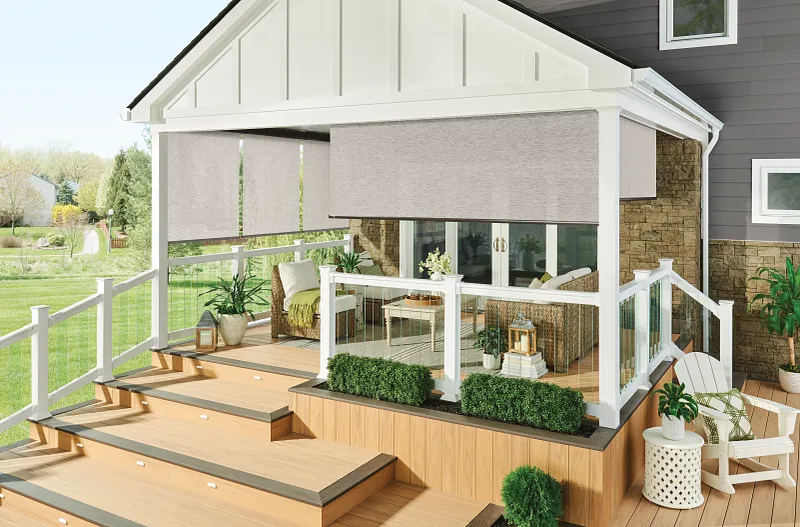
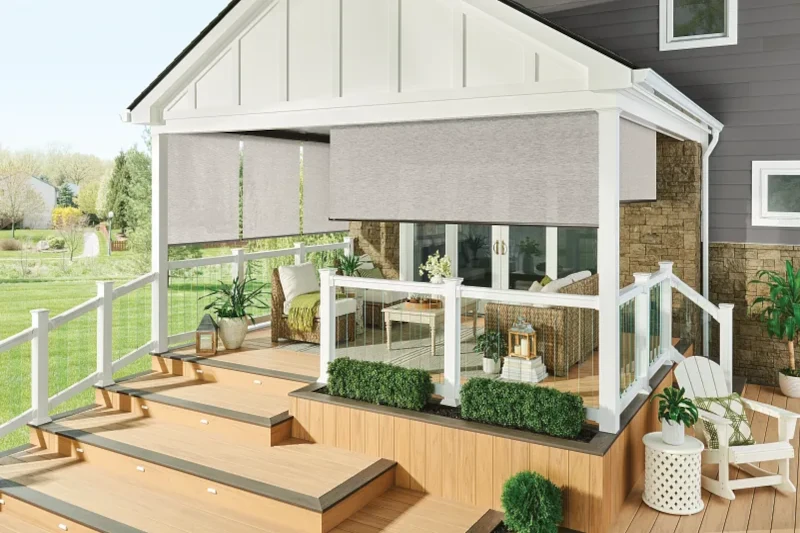
Update

diff --git a/Cool-Your-Edmond-Oklahoma-Sunroom.html b/Cool-Your-Edmond-Oklahoma-Sunroom.html
@@ -3,7 +3,7 @@
 
 <head>
   <meta charset="UTF-8">
-  <title>Cool Your Edmond Sunroom | Window Treatments</title>
+  <title>Cool Your Sunroom in Edmond & OKC | Solar & Cellular Shades</title>
 
   <!-- Google tag (gtag.js) -->
   <script async src="https://www.googletagmanager.com/gtag/js?id=G-W4SF3R9Q43"></script>
@@ -49,12 +49,12 @@
 
   <meta name="viewport" content="width=device-width, initial-scale=1.0">
 
-  <meta name="description" content="Transform your hot sunroom into a comfortable oasis with expert window treatment solutions from Shaded In The Sun. Discover how!">
+  <meta name="description" content="Cool your Edmond sunroom with solar shades, cellular shades & motorized window treatments. Expert installation. Call 405-259-5599 today!">
   <meta property="og:url" content="https://shadedinthesun.com/Cool-Your-Edmond-Oklahoma-Sunroom.html">
   <meta property="og:type" content="website">
   <meta property="og:site_name" content="Shaded In The Sun">
-  <meta property="og:title" content="Beat the Heat: Cool Your Oklahoma Sunroom - Shaded In The Sun">
-  <meta property="og:description" content="Transform your hot sunroom into a comfortable oasis with expert window treatment solutions from Shaded In The Sun. Discover how!">
+  <meta property="og:title" content="Cool Your Sunroom in Edmond & OKC | Solar & Cellular Shades">
+  <meta property="og:description" content="Cool your Edmond sunroom with solar shades, cellular shades & motorized window treatments. Expert installation. Call 405-259-5599 today!">
 
   <link rel="canonical" href="https://shadedinthesun.com/Cool-Your-Edmond-Oklahoma-Sunroom.html">
 
@@ -164,23 +164,22 @@
   </div>
 
   <main class='h-center-div'>
-    <section>
-      <div class="rel-position margin-tb-25">
-        <a href="tel:14052595599" onclick="return gtag_report_conversion();">
-          <div class="heroContainer stagger1">
-            <img class="hero stagger1 z-1 balanced-text" src="/images/Sunroom-with-Aberdeen-Solar-Shades-1.webp" width="1500" height="535" alt="Graber Solar Shades on a back patio">
+    <section class="margin-tb-25">
+      <div class="padding-15 outer-flex">
+        <img class="max-width-90p-h-auto margin-rl30" width="800" height="533" src="/images/3683-exterior-solar-shades-rs22-v1.webp" alt="Graber solar shades cooling a sunroom and reducing heat from summer sun" loading="lazy">
+        <div class='centerSmall'>
+          <h1 class="h-center fs-1000 balanced-text variable-h1-orange stagger1">Beat the Heat: Cool Your Edmond Oklahoma Sunroom</h1>
+          <div class='margin-t-25'>
+            <h2 class='variable-h2-orange h-center margin-t-15'>What You'll Learn in This Article:</h2>
+            <ul class='margin-t-10'>
+              <li class='fs-550 padding-left-15px margin-t-10'><span class='pop-100'>✓</span> <span class='text-neutral-900'>Why sunrooms get hot and how solar shades, cellular shades, and other window treatments tackle Oklahoma's intense summer heat</span></li>
+              <li class='fs-550 padding-left-15px margin-t-10'><span class='pop-100'>✓</span> <span class='text-neutral-900'>How energy-efficient shades reduce cooling costs by blocking UV rays and creating thermal barriers</span></li>
+              <li class='fs-550 padding-left-15px margin-t-10'><span class='pop-100'>✓</span> <span class='text-neutral-900'>Smart solutions including motorized window treatments that automatically adjust for maximum comfort and savings</span></li>
+              <li class='fs-550 padding-left-15px margin-t-10'><span class='pop-100'>✓</span> <span class='text-neutral-900'>Transform your sunroom from an uncomfortable greenhouse into a year-round retreat with the right Graber or Norman® window treatments</span></li>
+            </ul>
           </div>
-        </a>
-
-      </div>
-      <div class="vertical-center container">
-        <h1 class="stagger1 h-center fs-1000 balanced-text variable-h1-orange">Beat the Heat: Cool Your Edmond Oklahoma Sunroom</h1>
-        <p class=''>We all love a good sunroom or back patio, right? They are a bright, cheerful spot perfect for enjoying the outdoors. But let's be honest, especially here in Oklahoma, those beautiful sunrooms can turn into ovens when the summer sun really starts to shine and the glare can often be unbearable. It's no secret the sun makes things hot, and with all those windows, your sunroom is practically designed to soak up all that warmth! But don't worry, Shaded In The Sun is here to help you get that comfy sunroom and back patio back! <br>
-        </p><br>
-        <!-- <p class='h-center fs-600'><span class='Second-Color h-center fs-600'>Call Brent & Edna today at <br>
-            <a class='button2' href="tel:14052595599">405-259-5599</a></span> to see all the options available from Graber.</p> -->
-        <p class='Second-Color fs-900 h-center margin-t-15'>Call Brent & Edna today at <a class='button2 vertical-align-text'
-            href="tel:14052595599" onclick="return gtag_report_conversion();">405-259-5599</a> <br>for your window treatment questions.</p>
+          <p class='Second-Color fs-900 h-center margin-t-25'>Call Brent & Edna today at <a class='button2 vertical-align-text' href="tel:14052595599" onclick="return gtag_report_conversion();">405-259-5599</a> <br>for your window treatment questions.</p>
+        </div>
       </div>
     </section>
     <section class='container'>
@@ -239,22 +238,24 @@
         <a class='underline-text' href="tel:14052595599" onclick="return gtag_report_conversion();">Call Brent & Edna at 405-259-5599</a>
       </h3>
     </section>
-    <section>
-      <div class='vertical-center container'>
-        <h2 class='h-center balanced-text margin-tb-25 variable-h2-orange'>Related Articles</h2>
-      </div>
-      <div class="container grid-3-col">
-        <div class="card">
-          <h3 class='variable-h3 h-center balanced-text'>Alternative Window Coverings</h3>
-          <p>Looking beyond shades? Explore <a href="/Best-Alternatives-to-Blinds.html">alternatives to blinds</a> for unique cooling and design options.</p>
+    <section class="margin-tb-50 padding-tb-50 bg-light-gray">
+      <div class="container">
+        <div class="padding-15">
+          <h2 class='h-center balanced-text margin-tb-25 variable-h2-orange'>Related Articles</h2>
         </div>
-        <div class="card">
-          <h3 class='variable-h3 h-center balanced-text'>Luxury Window Treatment Options</h3>
-          <p>Ready for a premium upgrade? Explore <a href="/LuxuryWindowTreatments.html">luxury window treatments</a> that combine stunning design with superior performance.</p>
-        </div>
-        <div class="card">
-          <h3 class='variable-h3 h-center balanced-text'>2025 Window Treatment Trends</h3>
-          <p>Stay current on what's new. Discover <a href="/Top-Five-Window-Treatment-Trends-in-Oklahoma-City.html">top window treatment trends in Oklahoma City</a> for this year.</p>
+        <div class="container grid-3-col">
+          <div class="card h-center-div">
+            <h3 class='variable-h3 h-center balanced-text'>Alternative Window Coverings</h3>
+            <p class='padding-left-5px'>Looking beyond shades? Explore <a href="/Best-Alternatives-to-Blinds.html">alternatives to blinds</a> for unique cooling and design options.</p>
+          </div>
+          <div class="card h-center-div">
+            <h3 class='variable-h3 h-center balanced-text'>Luxury Window Treatment Options</h3>
+            <p class='padding-left-5px'>Ready for a premium upgrade? Explore <a href="/LuxuryWindowTreatments.html">luxury window treatments</a> that combine stunning design with superior performance.</p>
+          </div>
+          <div class="card h-center-div">
+            <h3 class='variable-h3 h-center balanced-text'>2025 Window Treatment Trends</h3>
+            <p class='padding-left-5px'>Stay current on what's new. Discover <a href="/Top-Five-Window-Treatment-Trends-in-Oklahoma-City.html">top window treatment trends in Oklahoma City</a> for this year.</p>
+          </div>
         </div>
       </div>
     </section>
